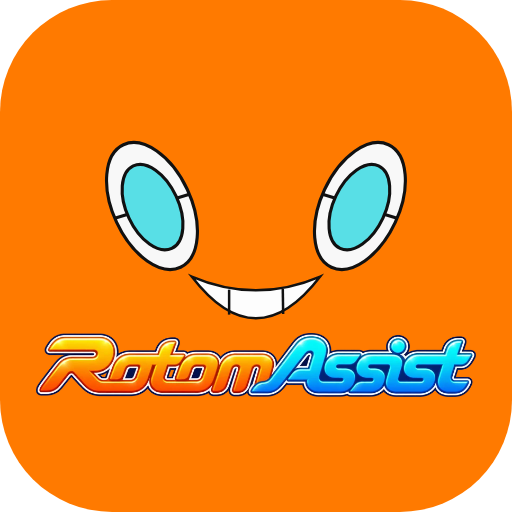
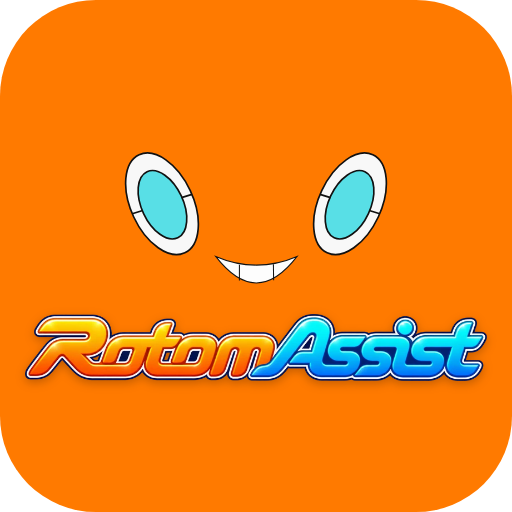
アイコン: ロゴを大きくして見やすく、顔を少し小さくして全体のバランスを整える
Claude-Session: https://claude.ai/code/session_01JbbxaLYHyDxz44LodN7ru7

diff --git a/docs/architecture.md b/docs/architecture.md
@@ -59,7 +59,7 @@
 - 聞き取りの経過（開始・音声の入り始め・話し始め・離した・終わり方・エラー、読み上げ、開いた端末）を roas.history に kind=event で送る（`/api/history`）。止まった原因を後から調べるため。質問の答えが 25 秒返らなければ打ち切る（「考え中」のままボタンが押せなくなるのを防ぐ）
 - 色: 背景はオレンジ #ff7a00、ボタンは少し薄い黒 #2e2e2e（白い文字）、結果は白いカード。オレンジの上の文字は暗い色（白だと読みにくい）。攻撃側は赤、防御側は青
 - 画面の並び: 上に固定のバー（左にロゴ `public/brand/logo.webp`。白と紺のふち付きでオレンジの背景にそのまま載せる。元画像は `assets/brand/logo-original.png`。右に設定ボタン）→ ロトムの顔と今の状態（「下のボタンを押しながら話してロト」「聞いてるロト」「考え中ロト」）→ 結果のカード（角丸・影）→ さっきの質問。下に固定で、親指で押しやすい横長の「押して話す」と文字入力。細かい設定（タップで開始・短く読む・読み上げない・答えの前の合図・声）は設定ボタンの中
-- アイコン: `app/icon.png`（512px、タブなど）と `app/apple-icon.png`（iPhone のホーム画面、180px。角はiPhoneが丸めるので四角）。オレンジの上にロトムの顔、その下にロゴ。テーマカラーはオレンジ
+- アイコン: `app/icon.png`（512px、タブなど）と `app/apple-icon.png`（iPhone のホーム画面、180px。角はiPhoneが丸めるので四角）。オレンジの上にロトムの顔、その下にロゴ（ロゴは幅の約 9 割まで大きくし、顔は少し小さくして、全体を上下の中央に置く。小さく表示しても読めるように）。テーマカラーはオレンジ
 - ロトムの顔（`app/RotomFace.tsx`）: 画面の上に両目と口。いただいた絵（右目・口 4 種）を SVG で描き起こした。右目の絵（てっぺんが右に傾く）を見る側の右に、左右反転したものを左に置き、本物のロトムと同じく目のてっぺんが外へ開く形・目の間は目 1 つ分弱・口は両目の間のやや下。ふだんの口は「歯を見せて笑う」、読み上げ中は「口を開けて笑う」「丸く開ける」「閉じて笑う」を 0.13 秒ごとに切り替える。読み上げ中かどうかは、ブラウザの声は開始・終了の知らせ（来ない端末のために 0.3 秒ごとにも確かめる）、Gemini の声は再生の開始・終了で決める
 - 画面を開いたら、まず「このアプリは音が出ます。マナーモード（消音）を解除して、音量を上げてください」を出し、「音を鳴らしてはじめる」で合図の音を鳴らして確かめてもらう（ブラウザは操作の後でないと音を出せないため、この操作で音を使えるようにする）。「音なしで使う」も選べる
 - 合図の音（`public/sounds/rotom.mp3`、約 1.7 秒）は「画面を開いたとき」と「答えの準備ができて読み上げる前」に鳴らす（その分答えは遅れるが、合図があった方がよい）
